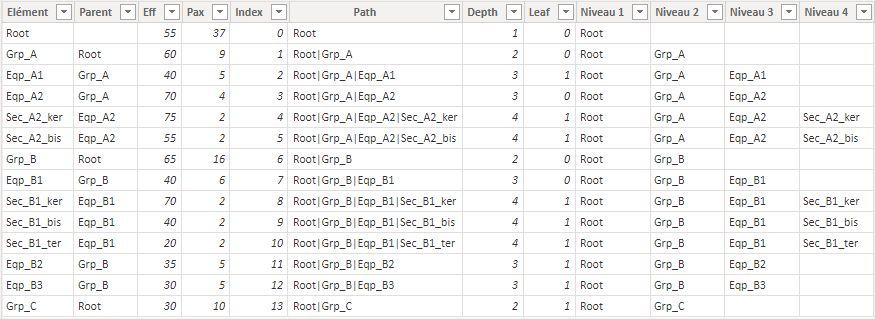
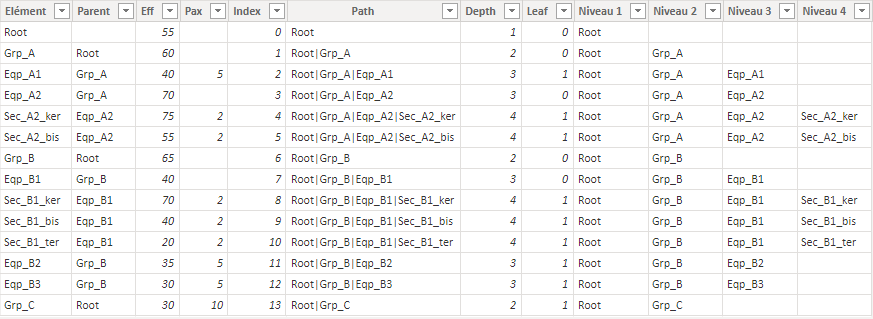
rédaction

Changed region(s): [[0.0, 0.0, 1.0, 1.0]]

diff --git a/Articles/PowerBi/20230118-hierarchie-desequilibree.md b/Articles/PowerBi/20230118-hierarchie-desequilibree.md
@@ -84,7 +84,7 @@ On a deux mesures :
 - Pax : le nombre de personnes, la valeur est additive : le nombre de personnes dans une _équipe_ correspond à la somme du nombre de personnes dans les _sections_ qui la compose.
 
 ```
-└───Root : Eff = 55% / Pax = 37
+└───Root : Eff = 55% / Pax = 35
     ├───Grp_A : Eff = 60% / Pax = 9
     │   ├───Eqp_A1 : Eff = 40% / Pax = 5
     │   └───Eqp_A2 : Eff = 70% / Pax = 4
@@ -106,14 +106,14 @@ On récupère les données au format tabulaire : ```Elément | Parent | ValeurA 
 
 Elément | Parent | Eff | Pax
 --- | --- | --- | ---
-Root | _null_ | 55 | 37
-Grp_A | Root | 60 | 9
+Root | _null_ | 55 | _null_
+Grp_A | Root | 60 | _null_
 Eqp_A1 | Grp_A | 40 | 5
-Eqp_A2 | Grp_A | 70 | 4
+Eqp_A2 | Grp_A | 70 | _null_
 Sec_A2_ker | Eqp_A2 | 75 | 2
 Sec_A2_bis | Eqp_A2 | 55 | 2
-Grp_B | Root | 65 | 16
-Eqp_B1 | Grp_B | 40 | 6
+Grp_B | Root | 65 | _null_
+Eqp_B1 | Grp_B | 40 | _null_
 Sec_B1_ker | Eqp_B1 | 70 | 2
 Sec_B1_bis | Eqp_B1 | 40 | 2
 Sec_B1_ter | Eqp_B1 | 20 | 2
@@ -122,23 +122,31 @@ Eqp_B3 | Grp_B | 30 | 5
 Grp_C | Root | 30 | 10
 
 Il est important que la racine de la hiérarchie (_Root_) est une valeur nulle comme parent (et pas une valeur vide).
+Il est possible d'avoir plusieurs racines qui sont chacune au début d'une hiérarchie.
+
 On ajoute également une colonne d'index.
 
 ![image](/Images/20230118-hierarchie-desequilibree/analysePerf-initial.png)
 
-### Colonnes calculées
+### Colonnes calculées <img src="https://raw.githubusercontent.com/microsoft/PowerBI-Icons/main/SVG/Calculated-Column.svg" alt="Calculated-Column" style="width:15px;"/>
 
 Un fois la table chargée dans le modèle, on va créer plusieurs colonnes et mesures pour rendre la hiérarchie facilement utilisable.
 Pour cela on va notamment utiliser les [fonctions parents et enfants](https://learn.microsoft.com/fr-fr/dax/parent-and-child-functions-dax).
 
-```Path = PATH(AnalysePerf[Elément], AnalysePerf[Parent])``` 
---> Crée le _chemin_ de l'élement à partir de la racine. Les niveaux sont séparés par des tubes.
+- **Path** : Crée le _chemin_ de l'élement à partir de la racine. Les niveaux sont séparés par des tubes.
+```
+Path = PATH(AnalysePerf[Elément], AnalysePerf[Parent])
+``` 
 
-```Depth = PATHLENGTH(AnalysePerf[Path])```
---> Enregistre la profondeur de l'élement : 1 pour la racine, 2 pour les groupes, 3 pour les équipes ...
+- **Depth** : Enregistre la profondeur de l'élement : 1 pour la racine, 2 pour les groupes, 3 pour les équipes ...
+```
+Depth = PATHLENGTH(AnalysePerf[Path])
+```
 
-```Leaf = IF(COUNTROWS(FILTER(AnalysePerf, PATHCONTAINS(AnalysePerf[Path], EARLIER(AnalysePerf[Elément])))) = 1, 1, 0)```
---> Indique si l'élément est une feuille dans la hiérarchie (s'il n'a pas d'enfant). Pour une utilisation plus simple, la colonne est de type entier plutôt que booléen.
+- **Leaf** : Indique si l'élément est une feuille dans la hiérarchie (s'il n'a pas d'enfant). Pour une utilisation plus simple, la colonne est de type entier plutôt que booléen.
+```
+Leaf = IF(COUNTROWS(FILTER(AnalysePerf, PATHCONTAINS(AnalysePerf[Path], EARLIER(AnalysePerf[Elément])))) = 1, 1, 0)
+```
 
 On va à présent recomposer la hiérarchie en ajoutant une colonne par niveau. Il y a 4 niveaux dans notre exemple, il faut donc ajouter 4 colonnes.
 
@@ -153,11 +161,12 @@ Les colonnes créées peuvent être réunie dans une hiérarchie.
 
 ![image](/Images/20230118-hierarchie-desequilibree/analysePerf-colonnes_calculees.png)
 
-### Champs calculés
+### Champs calculés <img src="https://raw.githubusercontent.com/microsoft/PowerBI-Icons/main/SVG/Measure.svg" alt="Measure" style="width:15px;"/>
+
 
 La table est prète à être utilisée, on va créer les mesures qui vont gérer les valeurs non-additives.
 
-- **RowDepth** : la profondeur maximum des lignes filtrées :
+- **RowDepth** : la profondeur dans la navigation (par exemple dans une matrice) :
 ```
 RowDepth = MAX(AnalysePerf[Depth])
 ```
@@ -170,24 +179,106 @@ BrowseDepth = VAR _d = SWITCH(TRUE()
 , ISINSCOPE(AnalysePerf[Niveau 2]), 2
 , ISINSCOPE(AnalysePerf[Niveau 1]), 1
 )
-RETURN IF(_d <= [RowDepth], _d)
+RETURN IF(_d <= MAX(AnalysePerf[Depth]) && _d >= MIN(AnalysePerf[Depth]), _d)
 ```
 
-- **Val Eff** : la valeur de la colonne Eff pour l'élément du niveau observé (et pas pour tous ses enfants) :
+### Indicateurs version 1 
+
+- **Val Eff** : pour les **valeurs non-additives** ; la valeur de la colonne Eff pour l'élément du niveau observé (et pas pour tous ses enfants) :
 ```
 Val Eff = VAR _d = [BrowseDepth]
 RETURN CALCULATE(SUM(AnalysePerf[Eff]), FILTER(AnalysePerf, [Depth] = _d))
 ```
 
-- **Val Pax** : la somme du nombre de personne pour les éléments les plus bas uniquement. _Pax_ est une colonne qui peut être additionné si on ne prend que le niveau le plus fin et pas les valeurs déjà agrégées.
+- **Val Pax** : pour les **valeurs additives** ; la somme du nombre de personne pour les éléments les plus bas uniquement. _Pax_ est une colonne qui peut être additionné, on filtre pour ne garder le niveau le plus fin dans l'hypose ou des niveaux agrégés auraient également été renseignés.
 ```
-Val Pax = IF([BrowseDepth] <= [RowDepth]
-    , CALCULATE(SUM(AnalysePerf[Pax]), FILTER(AnalysePerf, AnalysePerf[Leaf] = 1)) 
-)
+Val Pax = IF([BrowseDepth], CALCULATE(SUM(AnalysePerf[Pax]), FILTER(AnalysePerf, AnalysePerf[Leaf] = 1)) )
 ```
 
 ![image](/Images/20230118-hierarchie-desequilibree/mesures-table-matrice.png)
 
+Attention, en filtrant sur un élement en particulier de la hierarchie : les mesures renvoient des valeurs uniquement pour cet élément et ses enfants. 
+Par exemple si je sélectionne _Eqp_2_ j'aurai le résultat pour _Eqp_2_, _Sec_A2_ker_ et _Sec_A2_bis_. Pour les niveaux supérieurs je n'ai soit pas de données.
+Ce comportement n'est pas incohérent et est celui attendu dans la pluspart des cas.
+
+![image](/Images/20230118-hierarchie-desequilibree/mesures-v1-filtrees.png)
+
+### Indicateurs version 2 : conservation des totaux
+
+Si on souhaite afficher les valeurs des niveaux supérieurs (les _totaux_), lorsque la hiérarchie est filtrée, il faut modifier les mesures :
+
+- **BrowseDepth** version 2 : le filtre sur le niveau minimum est retiré.
+```
+BrowseDepth 2 = VAR _d = SWITCH(TRUE()
+, ISINSCOPE(AnalysePerf[Niveau 4]), 4
+, ISINSCOPE(AnalysePerf[Niveau 3]), 3
+, ISINSCOPE(AnalysePerf[Niveau 2]), 2
+, ISINSCOPE(AnalysePerf[Niveau 1]), 1
+)
+RETURN IF(_d <= MAX(AnalysePerf[Depth]) , _d)
+```
+
+- **Val Eff** version 2 : pour les **valeurs non-additives** ; le chemin courant est récupéré pour être appliqué quelques soient les filtres.
+```
+Val Eff 2 = VAR _path = MIN(AnalysePerf[Path])
+VAR _d = [BrowseDepth 2]
+RETURN CALCULATE(SUM(AnalysePerf[Eff]), FILTER(ALL(AnalysePerf), AnalysePerf[Depth] = _d && PATHCONTAINS(_path, [Elément])))
+```
+
+- **Val Pax** version 2 : pour les **valeurs additives** ; l'élément courant est récupérer pour appliquer un calcul similaire à la version 1 en prenant en compte les déscendant de l'élement.
+```
+Val Pax 2 = VAR _d = [BrowseDepth 2]
+RETURN If(_d,
+VAR _p = MIN(AnalysePerf[Path])
+VAR _e = MINX(FILTER(ALL(AnalysePerf), AnalysePerf[Depth] = _d && PATHCONTAINS(_p, AnalysePerf[Elément])), [Elément])
+RETURN CALCULATE(SUM(AnalysePerf[Pax]), FILTER(ALL(AnalysePerf), PATHCONTAINS(AnalysePerf[Path], _e) && AnalysePerf[Leaf] = 1))
+)
+```
+
+![image](/Images/20230118-hierarchie-desequilibree/mesures-v2-filtrees.png)
+
+### Indicateurs version 3 : répétition des parents
+
+Si on affiche ses mesures dans un histogramme, seul les valeurs pour le niveaux en cours sont visible. Par exemple si on se place dans la hiérachie au niveau 3 (_Eqp_A1_, _Eqp_A2_, etc) on ne vera pas de résultat pour l'élément _Grp_C_ qui ne contient pas de niveau enfant.
+
+![image](/Images/20230118-hierarchie-desequilibree/histo-sans-repetition.png)
+
+Si on souhaite afficher les élements parents dans le visuels il faut à nouveau modifier les mesures. On reprend la version 2 des mesure et on remplace l'appel à ```[BrowseDepth 2]``` par le calcul ```MIN([Depth])```.
+
+- **Val Eff** version 3 : pour les **valeurs non-additives** ; le chemin courant est récupéré pour être appliqué quelques soient les filtres.
+```
+Val Eff 3 = VAR _path = MIN(AnalysePerf[Path])
+VAR _d = MIN([Depth])
+RETURN CALCULATE(SUM(AnalysePerf[Eff]), FILTER(ALL(AnalysePerf), AnalysePerf[Depth] = _d && PATHCONTAINS(_path, [Elément])))
+```
+
+- **Val Pax** version 3 : pour les **valeurs additives** ; l'élément courant est récupérer pour appliquer un calcul similaire à la version 1 en prenant en compte les déscendant de l'élement.
+```
+Val Pax 3 = VAR _d = MIN([Depth])
+RETURN If(_d,
+VAR _p = MIN(AnalysePerf[Path])
+VAR _e = MINX(FILTER(ALL(AnalysePerf), AnalysePerf[Depth] = _d && PATHCONTAINS(_p, AnalysePerf[Elément])), [Elément])
+RETURN CALCULATE(SUM(AnalysePerf[Pax]), FILTER(ALL(AnalysePerf), PATHCONTAINS(AnalysePerf[Path], _e) && AnalysePerf[Leaf] = 1))
+)
+```
+
+![image](/Images/20230118-hierarchie-desequilibree/histo-avec-repetition.png)
+
 ### Segments
 
-Le visuel _Segment_ dans Power Bi affiche tous les niveaux d'une hiérarchie. SI on l'utilise pour afficher les 4 niveaux, des valeurs _(Vide)_ seront affichées pour chaque niveau.
+Le visuel _Segment_ dans Power BI affiche tous les niveaux d'une hiérarchie. Si on l'utilise pour afficher les 4 niveaux, des valeurs _(Vide)_ seront affichées pour chaque niveau. Il faut donc filtrer ces valeurs.
+
+La mesure **BrowseDepth** est non nulle lorsqu'il faut afficher le niveau, on pourrait vouloir l'utiliser pour filtrer le segment. Mais en faisant cela on ne garde que les branches de la hiérarchie avec des niveaux complets (de 1 à 4) ; en effet le visuel segment n'affiche que des branches complètes. Ce n'est donc pas la bonne solution.
+
+On peut utiliser la colonne **Leaf** pour ne conserver que les élements qui terminent une branche. Dans ce cas on ne perd pas d'élément dans la hiérarchie. Mais les braches incomplètes (avec moins de 4 niveaux) comportent des valeurs _(vide)_.
+
+![image](/Images/20230118-hierarchie-desequilibree/segments.png)
+
+On remplace ses valeurs _(vide)_ en "complétant" les branches. Si un niveau est vide, on prend le nom du niveau précédent :
+
+```
+Niveau 1 = PATHITEM(AnalysePerf[Path], 1)
+Niveau 2 = IF(PATHITEM(AnalysePerf[Path], 2) <> "", PATHITEM(AnalysePerf[Path], 2), [Niveau 1])
+Niveau 3 = IF(PATHITEM(AnalysePerf[Path], 3) <> "", PATHITEM(AnalysePerf[Path], 3), [Niveau 2])
+Niveau 4 = IF(PATHITEM(AnalysePerf[Path], 4) <> "", PATHITEM(AnalysePerf[Path], 4), [Niveau 3])
+```
